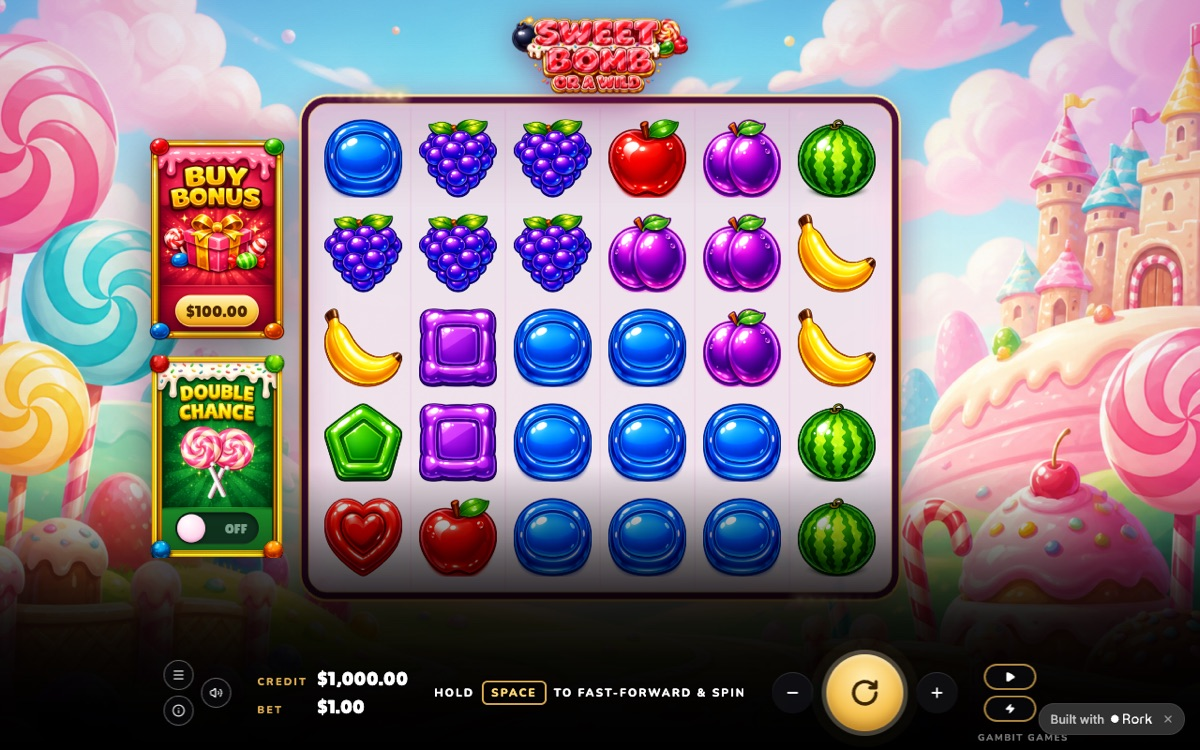
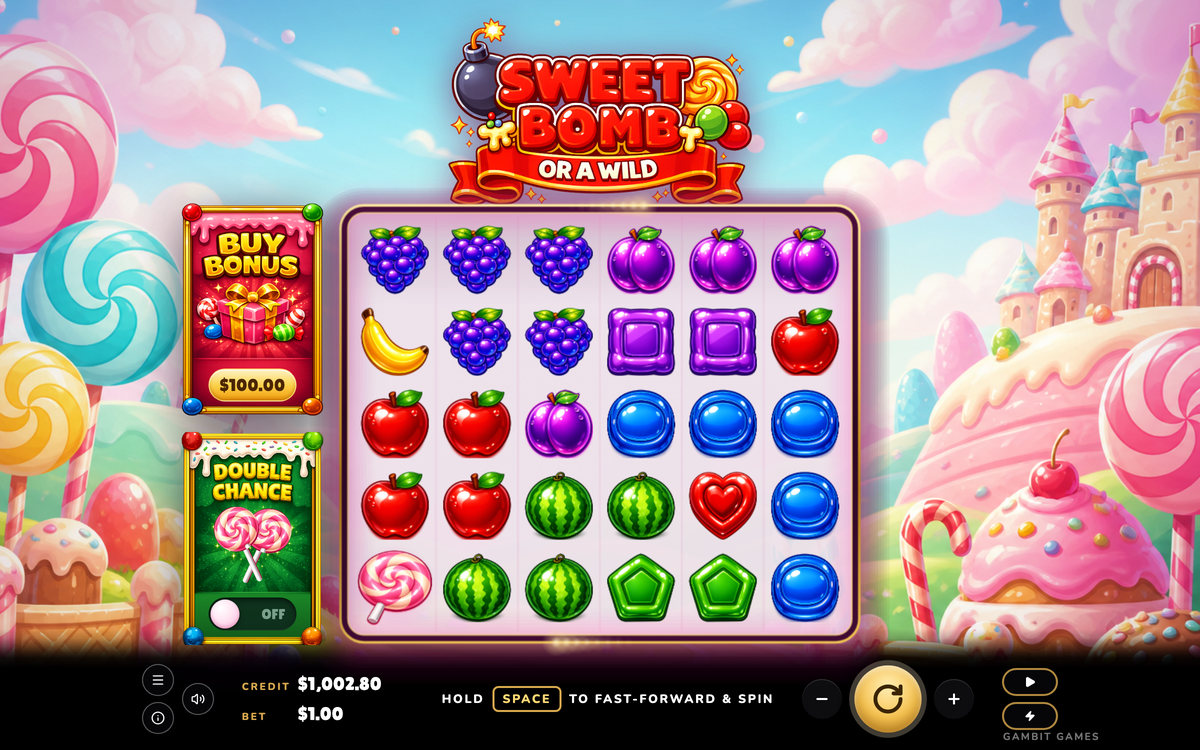
Recapture the Sweet Bomb board without the third-party watermark
The flagship still carried "Built with Rork" burned in at the bottom right,
left over from an old prototype deployment, sitting directly on top of our
own GAMBIT GAMES mark. It is the studio's most visible asset: the LCP
preload, the JSON-LD VideoGame.image, the featured capture, the hero reel
source and both social images on the game page all point at this one file.

Retaken from the live demo at 1200x750 with a 2x device scale factor and
downscaled for sharpness, with the demo compliance pill hidden for the still
since it belongs on the demo page and not in a marketing image. The board
carries all ten symbol types across its 30 cells, so the reels have the full
set to draw from. Same dimensions and same size class as the file it
replaces, so no declared width, height or og:image size changes.

The current build frames the board smaller than the prototype did, and the
hero reels slice 30 symbol cells straight out of this JPEG by pixel offset.
Left alone, BOARD would have cut seams, tray edges and half symbols out of
the new framing. Re-measured the grid off the capture rather than guessing:
symbol centres fitted to a line give a pitch of 81.9 x 82.0 with sub-pixel
residuals, on a grid running x 354.3 to 845.7, y 219.2 to 629.2. The
crop-to-symbol ratio comes out at 0.73 against the old 0.73, so the reel
cells frame their symbols exactly as they did before.

diff --git a/index.html b/index.html
@@ -997,9 +997,12 @@
     'use strict';
 
     // Symbols are sliced live out of the real in-game capture (1200x750).
-    // Board interior measured at x 402->1153, y 136->744; 6 x 5 cells.
+    // x/y is the top-left of cell (0,0), cw/ch the cell pitch, both measured off
+    // that JPEG: symbol centres fit to a line give a pitch of 81.9 x 82.0 and a
+    // grid running x 354.3->845.7, y 219.2->629.2. Re-measure these whenever the
+    // capture is retaken, or the reels slice seams and half-symbols instead.
     var CAPTURE = '/assets/img/sweet-bomb-live-capture.jpg';
-    var BOARD = { x: 314, y: 108, cw: 95.2, ch: 94, cols: 6, rows: 5 };
+    var BOARD = { x: 354.3, y: 219.2, cw: 81.9, ch: 82, cols: 6, rows: 5 };
     var SPREAD = { 100: 26, 1000: 14, 10000: 7.5, 100000: 3.6 };
 
     // The design exposes a Slow/Normal/Fast reel speed prop. The real site has
